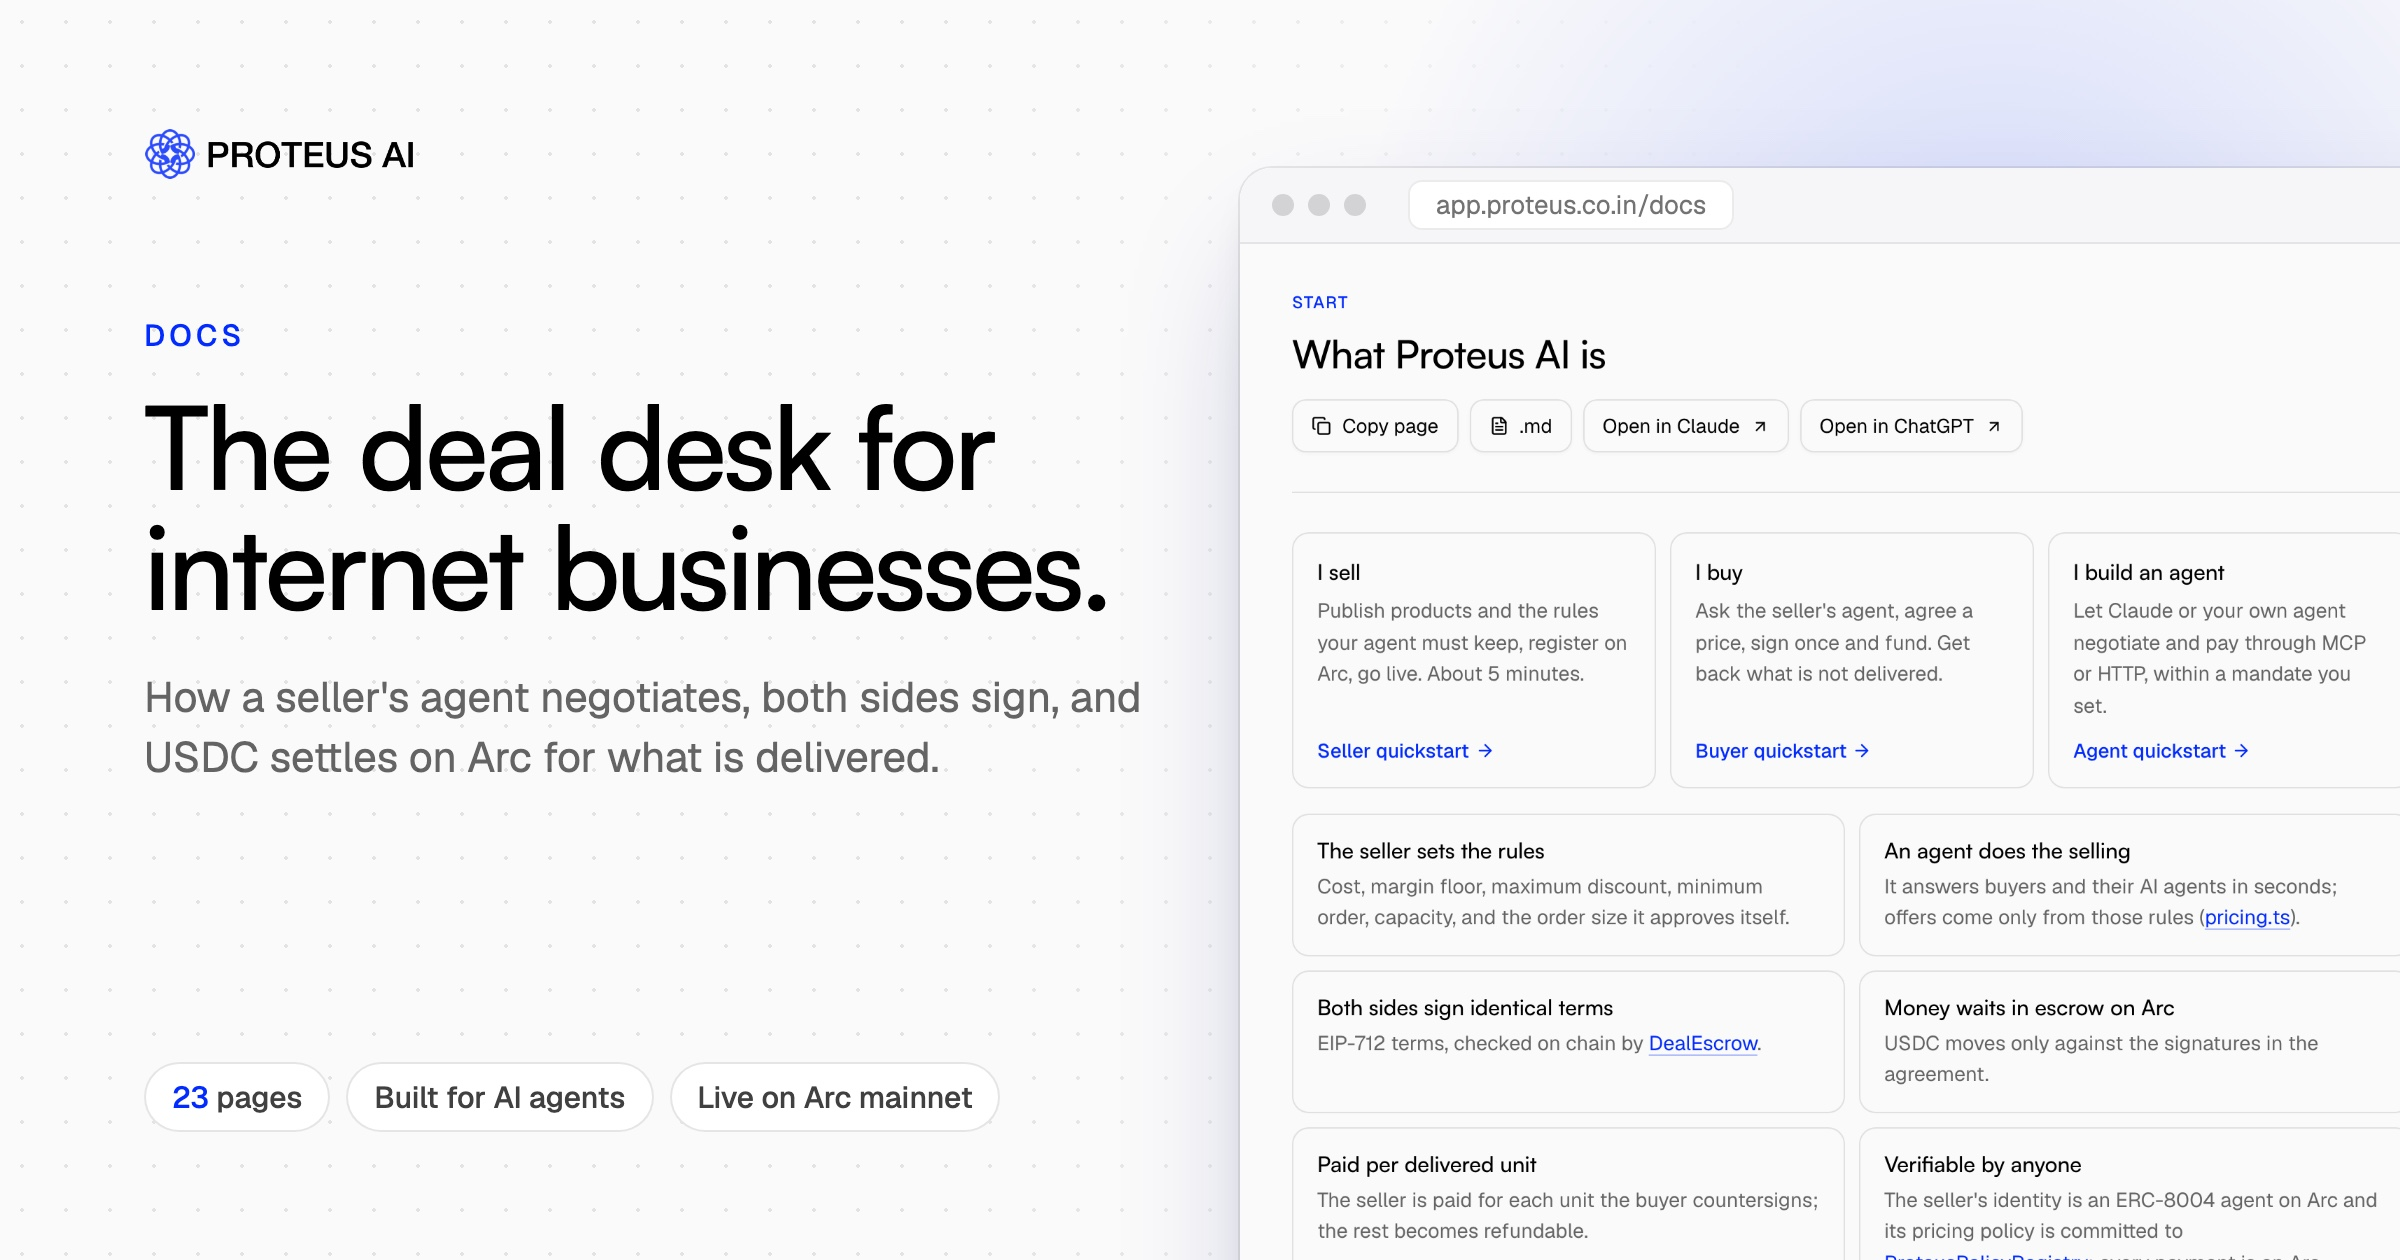
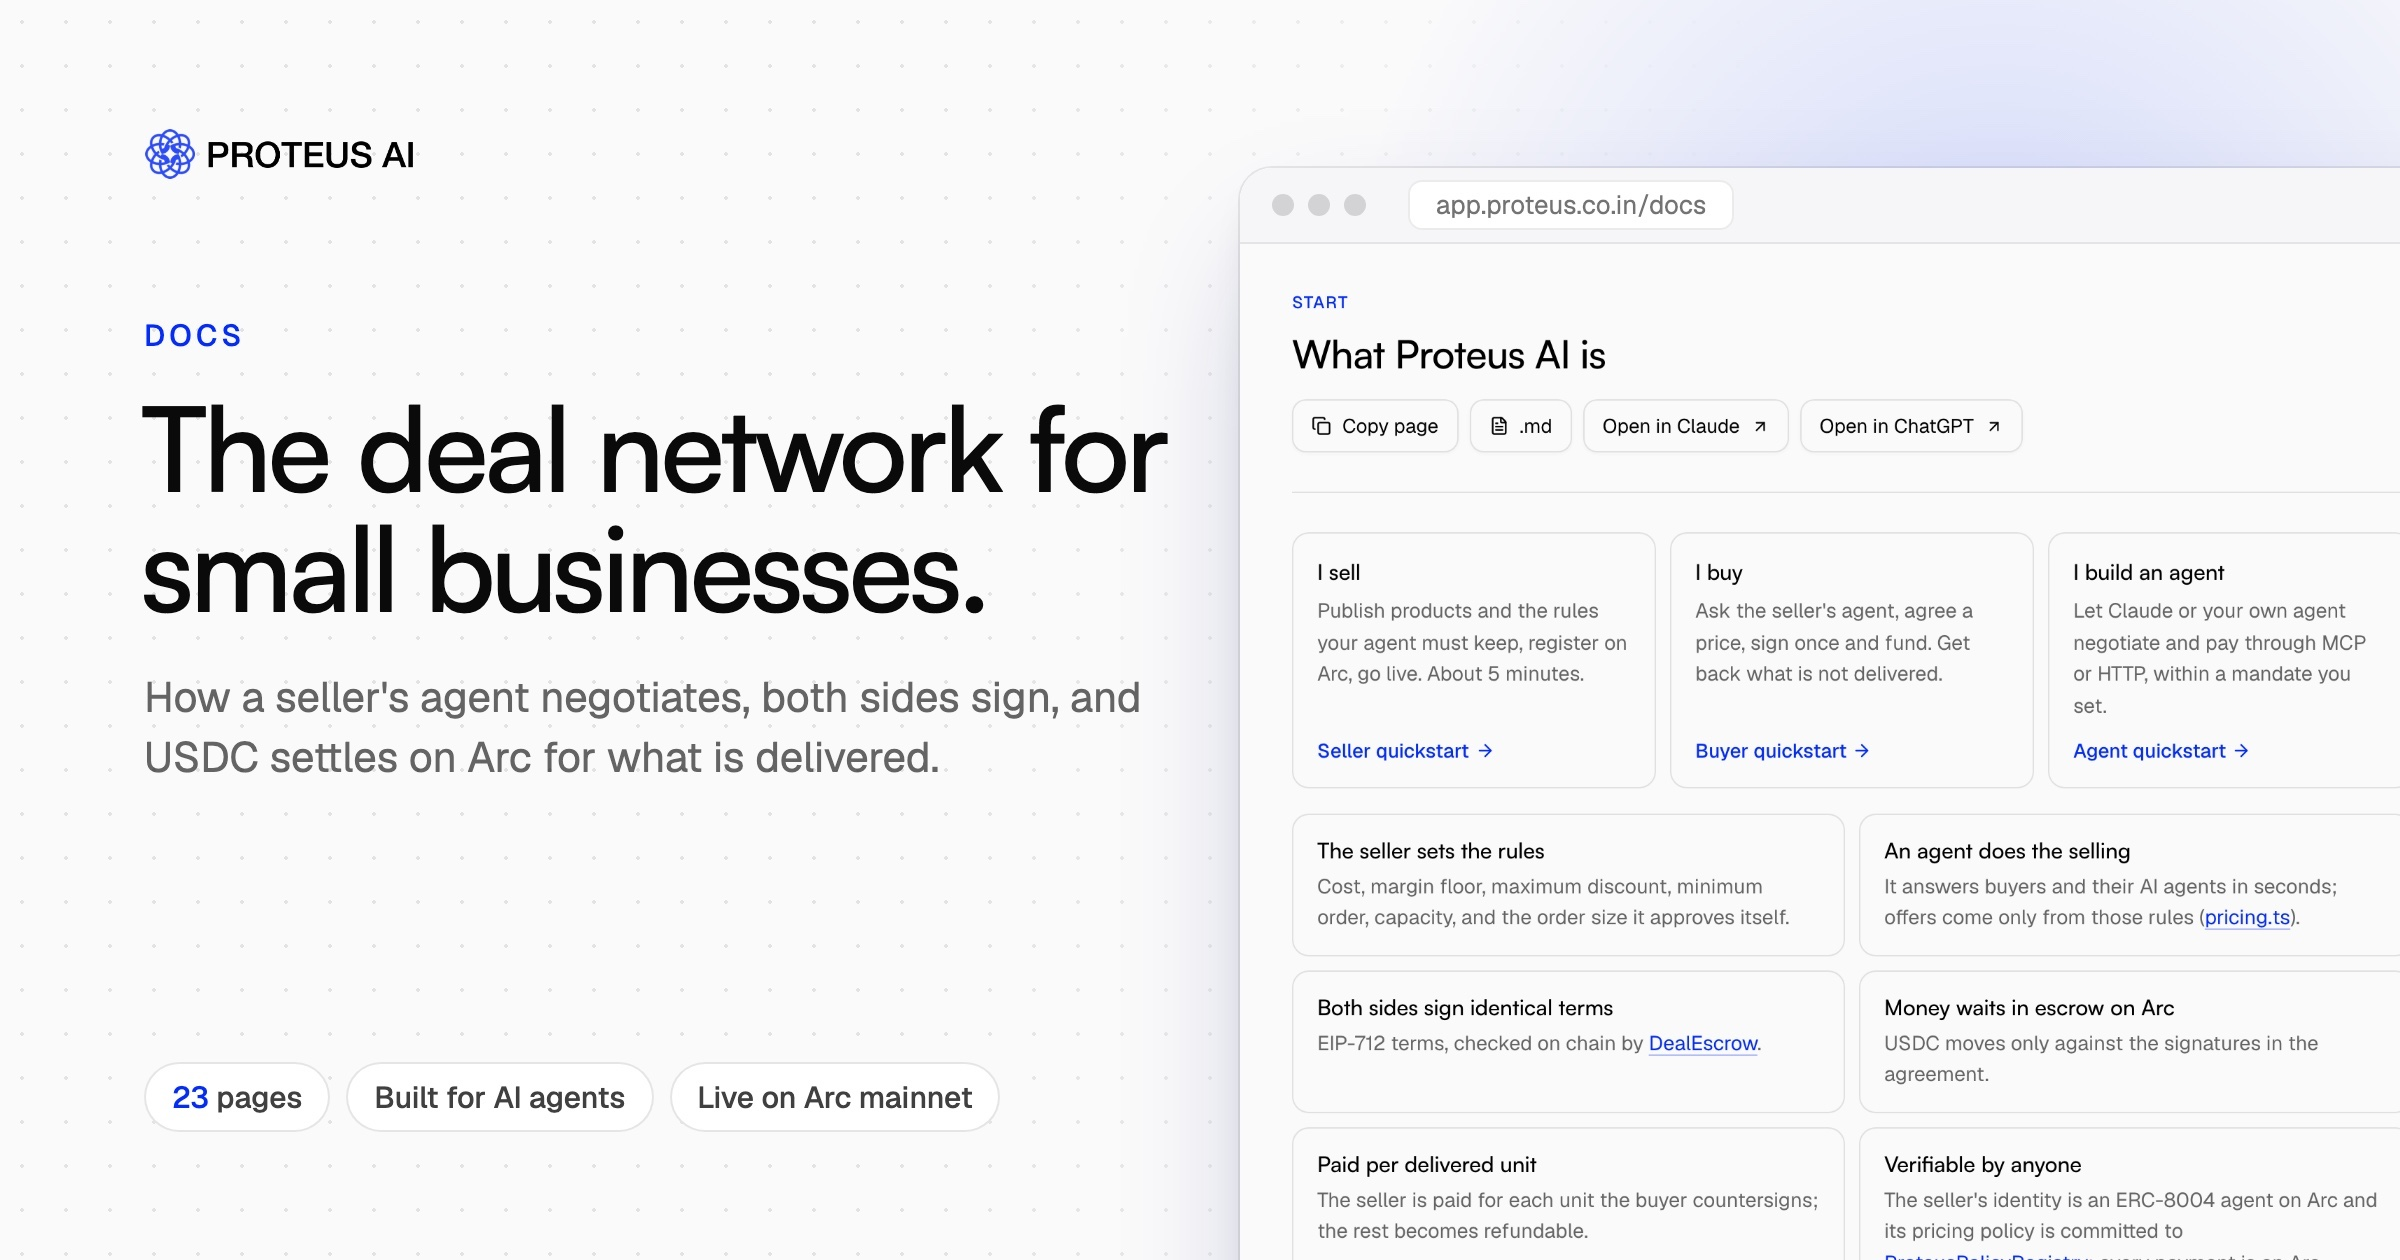
fix(site): replace the old deal-desk tagline in the sign-in page and docs previews (#8)
* fix(copy): replace the old deal-desk tagline in the product with the deal network positioning

- Sign-in heading: 'The autonomous deal service desk for internet businesses' -> 'The deal network for small businesses and AI agents'
- Docs preview default title: 'Proteus AI docs: the deal desk for internet businesses' -> 'Proteus AI docs: the deal network for small businesses and AI agents on Arc'
- Docs og:image:alt: 'Proteus AI docs: the deal desk for internet businesses' -> 'Proteus AI docs: how a seller's agent negotiates, both sides sign, and USDC settles on Arc for what is delivered' (describes the card's subhead; the card image itself still shows the old headline)

* fix(og): redraw the docs link-preview card with the deal network headline

site/public/og/docs.jpg: headline 'The deal desk for internet businesses.' -> 'The deal network for small businesses.'
Same 2400x1260 card, layout and style: the old headline area is covered with the card's own dot-grid background
(sampled 9 grid rows below, so the 44px grid lines up) and the new headline is set in Satoshi 500 at the measured
size, line height and position of the original.

server/src/index.ts og:image:alt -> 'Proteus AI docs: the deal network for small businesses', matching the card.

Changed region(s): [[0.0625, 0.3095, 0.4688, 0.4952], [0.25, 0.3095, 0.5, 0.4024]]

diff --git a/server/src/index.ts b/server/src/index.ts
@@ -116,7 +116,7 @@ function docsPreviewShell(shell: string, dist: string) {
   const esc = (v: string) => v.replace(/&/g, "&amp;").replace(/"/g, "&quot;").replace(/</g, "&lt;");
   return (path: string, origin: string) => {
     const page = pages.get(path.replace(/^\/docs\/?/, "").split("/")[0] ?? "");
-    const title = page ? `${page.title} · Proteus AI docs` : "Proteus AI docs: the deal desk for internet businesses";
+    const title = page ? `${page.title} · Proteus AI docs` : "Proteus AI docs: the deal network for small businesses and AI agents on Arc";
     const desc = page?.summary || "How a seller's agent negotiates, both sides sign, and USDC settles on Arc for what is delivered. Built for people and AI agents.";
     const image = `${origin}/og/docs.jpg`;
     const meta = [
@@ -128,7 +128,7 @@ function docsPreviewShell(shell: string, dist: string) {
       `<meta property="og:image" content="${image}" />`,
       `<meta property="og:image:width" content="2400" />`,
       `<meta property="og:image:height" content="1260" />`,
-      `<meta property="og:image:alt" content="Proteus AI docs: the deal desk for internet businesses" />`,
+      `<meta property="og:image:alt" content="Proteus AI docs: the deal network for small businesses" />`,
       `<meta name="twitter:card" content="summary_large_image" />`,
       `<meta name="twitter:title" content="${esc(title)}" />`,
       `<meta name="twitter:description" content="${esc(desc)}" />`,

diff --git a/site/src/app/auth/LoginPage.tsx b/site/src/app/auth/LoginPage.tsx
@@ -56,7 +56,7 @@ export default function LoginPage() {
         <motion.div initial={{ opacity: 0, y: 12 }} animate={{ opacity: 1, y: 0 }} transition={T_DEFAULT} className={s.cardWrap}>
           <Card>
             <div className={s.head}>
-              <h1 className={`${s.title} ${s.titleLong}`}>The autonomous deal service desk for internet businesses</h1>
+              <h1 className={`${s.title} ${s.titleLong}`}>The deal network for small businesses and AI agents</h1>
             </div>
             {provider === "circle" && !mock ? (
               <CircleSignIn onDone={() => navigate(next, { replace: true })} />
